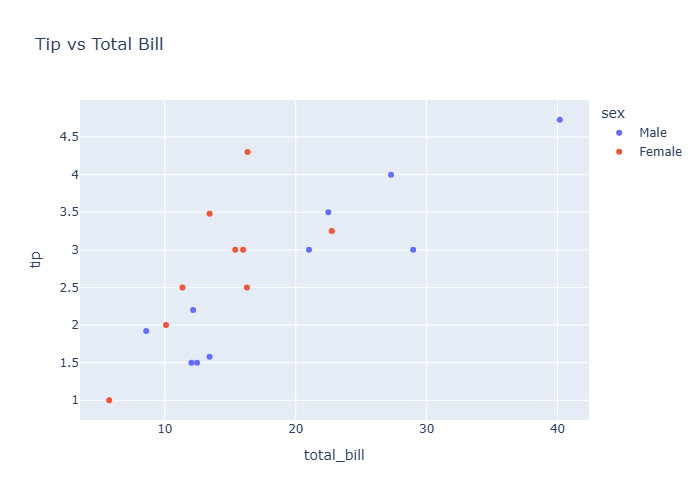
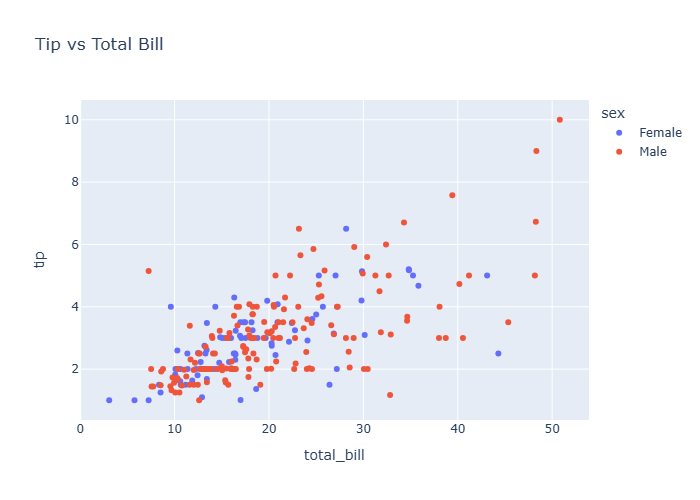
updated tips data reading

diff --git a/dashboard/app.py b/dashboard/app.py
@@ -2,12 +2,10 @@ from shiny import App, reactive, render, ui
 import pandas as pd
 import plotly.express as px
 from pathlib import Path
+import seaborn as sns
 
-# ===== Continuous update setup using reactive.file_reader =====
-@reactive.file_reader(Path("data/tips.csv"))
-def read_tips():
-    # Automatically reload data when file changes
-    return pd.read_csv("data/tips.csv")
+# Load dataset
+tips = sns.load_dataset("tips")
 
 # ===== UI layout =====
 app_ui = ui.page_fluid(
@@ -40,7 +38,7 @@ def server(input, output, session):
     
     @reactive.calc
     def filtered_data():
-        df = read_tips()
+        df = tips
         
         # Filter by day if not 'All'
         if input.selected_day() != "All":

diff --git a/README.md b/README.md
@@ -1,13 +1,13 @@
 # 💸 Restaurant Tips Dashboard
 
-This project is a Shiny for Python web application that visualizes restaurant tips data from `data/tips.csv` using interactive controls and a Plotly chart.
+This project is a Shiny for Python web application that visualizes restaurant tips data using the built-in `seaborn` tips dataset, with interactive controls and a Plotly chart.
 
 ## Features
 - Select day of the week to filter data
 - Option to include/exclude smoker data
 - Data table and summary info
 - Interactive scatter plot (total bill vs tip)
-- Auto-reloads data when `data/tips.csv` changes
+- Uses the built-in dataset, so no external data file is required
 
 ## Setup Instructions
 
@@ -40,17 +40,20 @@ shiny run --reload dashboard/app.py
 
 ## File Structure
 - `dashboard/app.py` — Main Shiny app code
-- `data/tips.csv` — Data file
 - `requirements.txt` — Python dependencies
 - `README.md` — Project instructions
 
 ## Usage
 - Select a day and toggle smoker data to filter the table and chart.
 - The chart is saved as `chart.png` and displayed as an image in the app.
+- No need to provide a data file; the app loads the tips dataset automatically.
 
 ## Troubleshooting
 - If you see errors about missing packages, ensure you have activated the virtual environment and installed all requirements.
 - For image export issues, make sure `kaleido` is installed.
+
+## Deployment Notes
+This app requires a Python server environment to run. GitHub Pages only supports static content and cannot host Python apps. To deploy your Shiny for Python app, use a platform like [Shiny for Python hosting](https://www.shiny.posit.co/py/), Heroku, or similar Python web hosting services.
 
 ---
 
